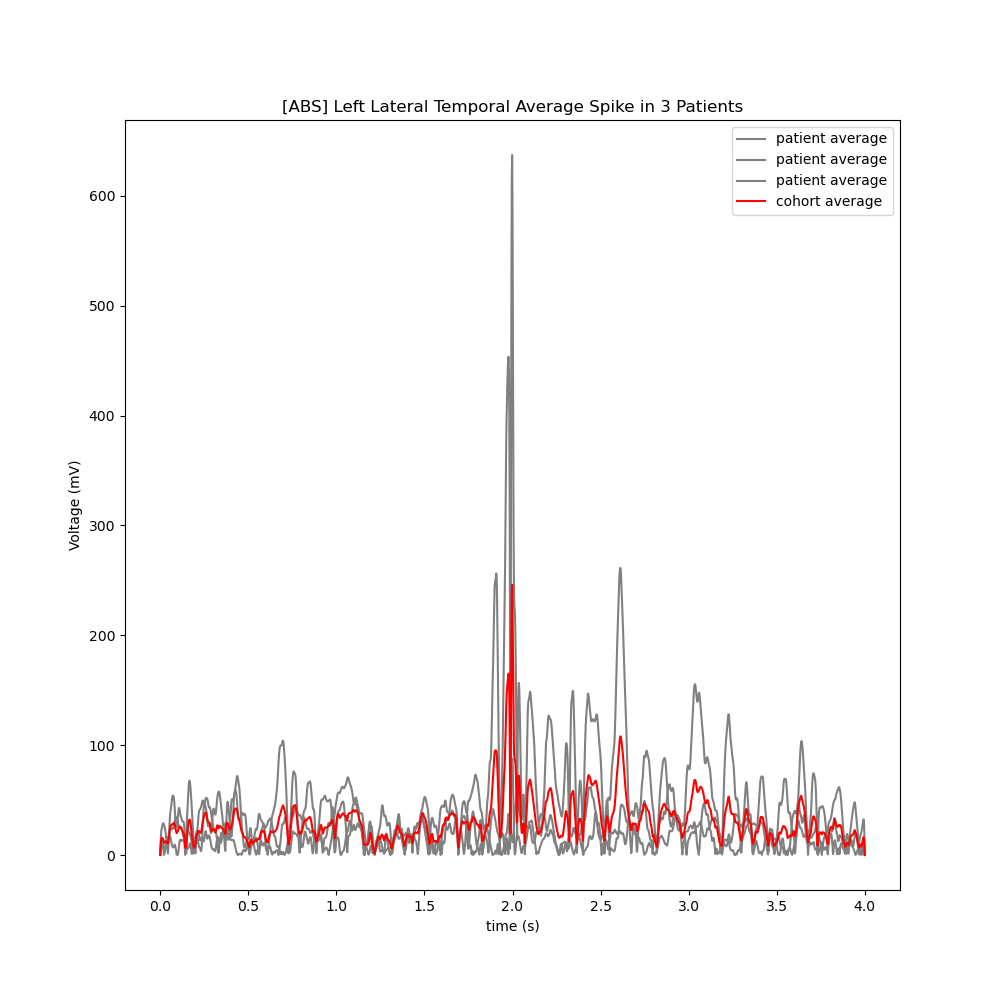
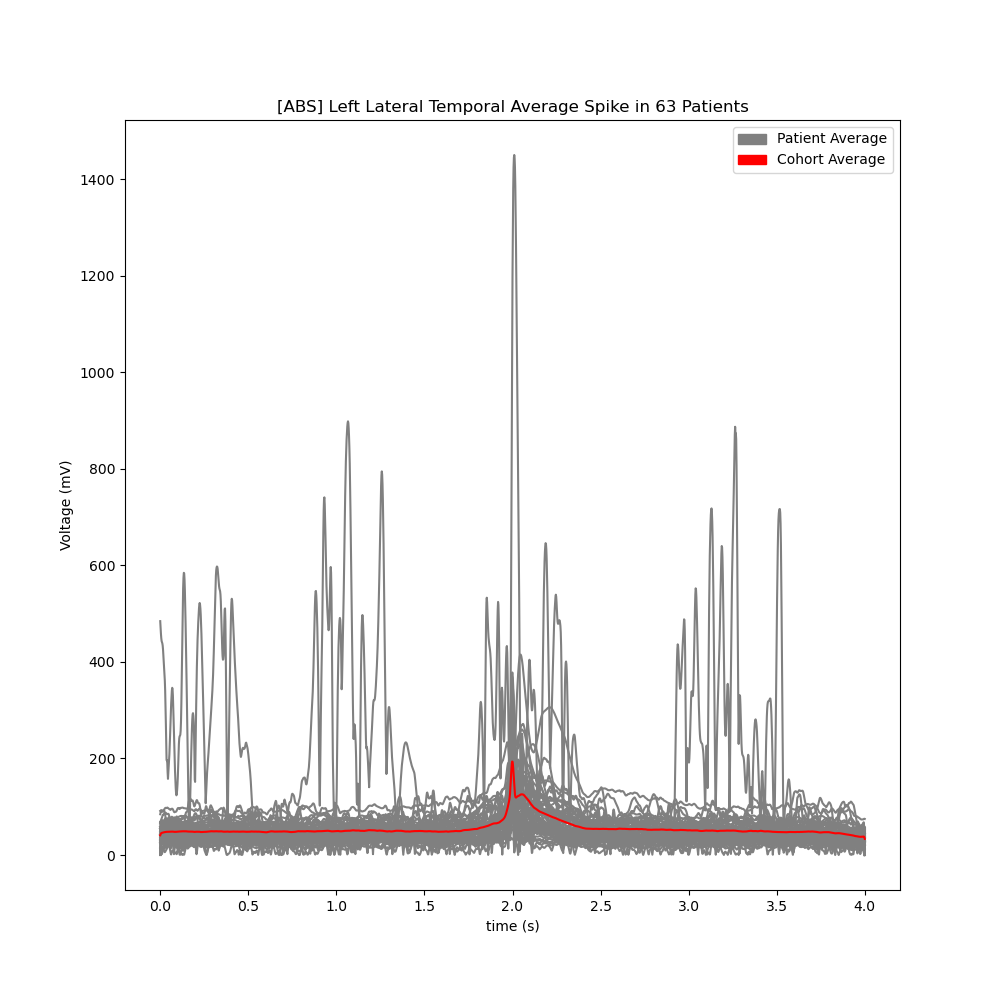
distribution plots

diff --git a/HUMAN/working_feat_extract_code/region_distribution.py b/HUMAN/working_feat_extract_code/region_distribution.py
@@ -1,3 +1,4 @@
+#%%
 #set up environment
 import pickle
 import pickle as pkl
@@ -8,12 +9,14 @@ from scipy import signal as sig
 from scipy.io import loadmat, savemat
 import warnings
 warnings.filterwarnings('ignore')
+import seaborn as sns
 #get all functions 
 import sys, os
 code_path = os.path.dirname('/mnt/leif/littlab/users/aguilac/Interictal_Spike_Analysis/HUMAN/working_feat_extract_code/functions/')
 sys.path.append(code_path)
 from ied_fx_v3 import *
 
+# %%
 #Setup ptnames and directory
 data_directory = ['/mnt/leif/littlab/users/aguilac/Projects/FC_toolbox/results/mat_output_v2', '/mnt/leif/littlab/data/Human_Data']
 pt = pd.read_csv('/mnt/leif/littlab/users/aguilac/Projects/FC_toolbox/results/mat_output_v2/pt_data/pkl_list.csv') #pkl list is our list of the transferred data (mat73 -> pickle)
@@ -21,28 +24,148 @@ pt = pt['pt'].to_list()
 blacklist = ['HUP101' ,'HUP112','HUP115','HUP124','HUP144','HUP147','HUP149','HUP155','HUP176','HUP193','HUP194','HUP195','HUP198','HUP208','HUP212','HUP216','HUP217','HUP064','HUP071','HUP072','HUP073','HUP085','HUP094']
 ptnames = [i for i in pt if i not in blacklist] #use only the best EEG signals (>75% visually validated)
 
-#
+# %%
 roiL_mesial = [' left entorhinal ', ' left parahippocampal ' , ' left hippocampus ', ' left amygdala ', ' left perirhinal ']
-roiL_lateral = [' left inferior temporal ', ' left superior temporal ', ' left middle temporal ', ' left fusiform ']
+roiL_lateral = [' left inferior temporal ', ' left superior temporal ', ' left middle temporal ', ' left fusiform '] #lingual??
 roiR_mesial = [' right entorhinal ', ' right parahippocampal ', ' right hippocampus ', ' right amygdala ', ' right perirhinal ']
 roiR_lateral = [' right inferior temporal ', ' right superior temporal ', ' right middle temporal ', ' right fusiform ']
 emptylabel = ['EmptyLabel','NaN']
-L_OC = [' left inferior parietal ', ' left postcentral ',' left cerebellum exterior ', ' left superior parietal ', ' left precentral ', ' left rostral middle frontal ', ' left pars triangularis ', ' left supramarginal ', ' left insula ', ' left caudal middle frontal ', ' left putamen ', ' left posterior cingulate ', ' left caudate ', ' left lateral orbitofrontal ', ' left lateral occipital ', ' left cuneus ']
-R_OC = [' right inferior parietal ', ' right postcentral ',' right cerebellum exterior ', ' right superior parietal ', ' right precentral ', ' right rostral middle frontal ', ' right pars triangularis ', ' right supramarginal ', ' right insula ', ' right caudal middle frontal ', ' right putamen ', ' right posterior cingulate ', ' right caudate ', ' right lateral orbitofrontal ', ' right lateral occipital ', ' right cuneus ']
+L_OC = [' left inferior parietal ', ' left postcentral ', ' left superior parietal ', ' left precentral ', ' left rostral middle frontal ', ' left pars triangularis ', ' left supramarginal ', ' left insula ', ' left caudal middle frontal ', ' left posterior cingulate ', ' left lateral orbitofrontal ', ' left lateral occipital ', ' left cuneus ']
+R_OC = [' right inferior parietal ', ' right postcentral ', ' right superior parietal ', ' right precentral ', ' right rostral middle frontal ', ' right pars triangularis ', ' right supramarginal ', ' right insula ', ' right caudal middle frontal ', ' right posterior cingulate ', ' right lateral orbitofrontal ', ' right lateral occipital ', ' right cuneus ']
+
+#L_OC = [' left inferior parietal ', ' left postcentral ',' @left cerebellum exterior ', ' left superior parietal ', ' left precentral ', ' left rostral middle frontal ', ' left pars triangularis ', ' left supramarginal ', ' left insula ', ' left caudal middle frontal ', ' @left putamen ', ' left posterior cingulate ', ' @left caudate ', ' left lateral orbitofrontal ', ' left lateral occipital ', ' left cuneus ']
+#R_OC = [' right inferior parietal ', ' right postcentral ',' right cerebellum exterior ', ' right superior parietal ', ' right precentral ', ' right rostral middle frontal ', ' right pars triangularis ', ' right supramarginal ', ' right insula ', ' right caudal middle frontal ', ' right putamen ', ' right posterior cingulate ', ' right caudate ', ' right lateral orbitofrontal ', ' right lateral occipital ', ' right cuneus ']
 roilist = [roiL_mesial, roiL_lateral, roiR_mesial, roiR_lateral, L_OC, R_OC, emptylabel]
 
-
+# %%
+# want to create a heat map with the zones representing the distribution of spikes. 
+# (each row is a pt, each column shows the count)
+brain_dfs = pd.DataFrame()
+count = 0
 for pt in ptnames:
-    spike, brain_df, ids = load_ptall(pt, data_directory)
-    if isinstance(brain_df, pd.DataFrame) == False: #checks if RID exists
+    rid,DF = load_cleaned_braindf(pt,data_directory)
+    if isinstance(DF, pd.DataFrame) == False:
+        continue
+    else:
+        brain_dfs = brain_dfs.append(DF)
         count += 1
-        continue
-    if spike.fs[0][-1] < 500:
-        print("low fs - skip")
-        continue
-    for roi in roilist:
-        vals, chnum, idxch = value_basis(spike, brain_df, roi)    
+
+display(count)
+
+#save file for the concat'd dataframe
+#filepath = '/mnt/leif/littlab/users/aguilac/Projects/FC_toolbox/results/mat_output_v2/pt_data/concat_brain_df.csv'
+#brain_dfs.to_csv(filepath)
+
+
+#%%
+""" commented out, because I saved this dataframe as a csv, and added region labels manually. 
+region_count = brain_dfs.groupby('final_label').count()['name'].reset_index()
+region_count = region_count.sort_values(by='name',ascending=False)
+display(region_count)
+"""
+
+#%%
+filepath = '/mnt/leif/littlab/users/aguilac/Projects/FC_toolbox/results/mat_output_v2/pt_data/allcounts_brain_df.csv'
+region_count = pd.read_csv(filepath)
+#region_count.to_csv(filepath)
+
+#%%
+trunc_count = region_count[region_count['name'] > 20]
+trunc_count = trunc_count.groupby('region').sum('name')['name'].reset_index().sort_values(by='name',ascending = False)
+display(trunc_count)
+
+"""
+There was 3 brain stem???
+30/25 for Cerebellum Total of 50 channels across our 77 patients. 
+"""
+
+# %% Create Heat Map that shows % of spikes in a region vs the SOZ localization. (we can start with lateralization first then exact)
+
+def biglist_roi(ptnames, roi):
+    roiLlat_values = []
+    roiLlat_idxch = []
+    count = 0
+    for pt in ptnames:
+        print(pt)
+        spike, brain_df, ids = load_ptall(pt, data_directory)
+        if isinstance(brain_df, pd.DataFrame) == False: #checks if RID exists
+            count += 1
+            continue
+        if spike.fs[0][-1] < 500:
+            count += 1
+            print("low fs - skip")
+            continue
+        vals, chnum, idxch = value_basis_multiroi(spike, brain_df, roi)
+        roiLlat_values.append(vals)
+        roiLlat_idxch.append(idxch)    
         if vals == 0: #checks if there is no overlap
             count += 1
             continue
-        _, _, _, indiv_vals, flipwave, _, _ = totalavg_roiwave(idxch, vals)
+    return roiLlat_values, roiLlat_idxch
+
+def spike_count_perregion(values):
+    spike_count = []
+    count = []
+    for val in values:
+        count = []
+        if val == 0:
+            count = [0]
+            spike_count.append(count)
+            continue
+        for x in val:
+            count.append(len(x))
+        spike_count.append(count) #returns a list of the counts of each pt, per channel in ROI
+
+    count_perpt = [np.sum(x) for x in spike_count]
+    fullcounts = np.sum(np.sum(count_perpt))
+    return spike_count, count_perpt, fullcounts
+
+#%% multiroi approach:
+roi = [roiL_mesial, roiL_lateral, roiR_mesial, roiR_lateral, L_OC, R_OC]
+
+#%% individual pull (using the old version of the code) This is just based_values substituted.
+#left mesial
+roiLmesi_values, roiLmesi_idxch = biglist_roi(ptnames, roiL_mesial)
+counts_Lmesi, count_Lmesi_perpt, fullcount_Lmesi = spike_count_perregion(roiLmesi_values) #returns a list of the counts of each pt, per channel in ROI
+
+#left lateral
+roiLlat_values,roiLlat_idxch = biglist_roi(ptnames, roiL_lateral)
+counts_Llat, count_Llat_perpt, fullcount_Llat = spike_count_perregion(roiLlat_values) #returns a list of the counts of each pt, per channel in ROI
+
+#right mesial
+roiRmesi_values, roiRmesi_idxch = biglist_roi(ptnames, roiR_mesial)
+counts_Rmesi, count_Rmesi_perpt, fullcount_Rmesi = spike_count_perregion(roiRmesi_values) #returns a list of the counts of each pt, per channel in ROI
+
+#right lateral
+roiRlat_values, roiRlat_idxch = biglist_roi(ptnames, roiR_lateral)
+counts_Rlat, count_Rlat_perpt, fullcount_Rlat = spike_count_perregion(roiRlat_values) #returns a list of the counts of each pt, per channel in ROI
+
+# %%
+
+# GO BACK AND PLOT WITH THIS
+
+#L OC
+roiLOC_values, roiLOC_idxch = biglist_roi(ptnames, L_OC)
+counts_LOC, count_LOC_perpt, fullcount_LOC = spike_count_perregion(roiLOC_values)
+#R OC
+roiROC_values, roiROC_idxch = biglist_roi(ptnames, R_OC)
+counts_ROC, count_ROC_perpt, fullcount_ROC = spike_count_perregion(roiROC_values)
+#emptylabel
+#roiNAN_values, roiNAN_idxch = biglist_roi(ptnames, emptylabel)
+#counts_NAN, count_NAN_perpt, fullcount_NAN = spike_count_perregion(roiNAN_values)
+
+# %% Plot a bar plot showing the counts
+totalcounts= np.sum([fullcount_Rlat,fullcount_Rmesi,fullcount_Llat,fullcount_Lmesi])#,fullcount_ROC, fullcount_LOC)
+listofcounts = [fullcount_Rlat,fullcount_Rmesi,fullcount_Llat,fullcount_Lmesi]#,fullcount_ROC, fullcount_LOC]
+percentofcount = np.divide(listofcounts,totalcounts)
+
+fig = plt.figure(figsize=(10,10))
+plt.bar(['R L','R M','L L', 'L M'], percentofcount)
+plt.title('Percent of Spikes per Region')
+plt.ylabel('%')
+plt.xlabel('region')
+fig.savefig("/mnt/leif/littlab/users/aguilac/Interictal_Spike_Analysis/HUMAN/working_feat_extract_code/spike figures/distribution/spike_counts1") #save as jpg
+
+
+
+#%% Create average feature value (normalized) per spike region vs localization (or lateralization)

diff --git a/HUMAN/working_feat_extract_code/functions/ied_fx_v3.py b/HUMAN/working_feat_extract_code/functions/ied_fx_v3.py
@@ -327,6 +327,16 @@ def load_ptall(ptname, data_directory):
 
     return spike, relabeled_df, [ptname,rid]
 
+def load_cleaned_braindf(ptname, data_directory):
+    rid, brain_df = load_rid(ptname, data_directory)
+    if isinstance(brain_df, pd.DataFrame) == False:
+        relabeled_df = 0
+        ptname = 0
+        rid = 0
+    else:
+        relabeled_df = label_fix(ptname, data_directory, threshold = 0.25)
+    return [ptname, rid], relabeled_df
+
 def value_basis(spike, brain_df, roi):
     """
     Function that takes in all values, the DKT atlas dataframe, and a region of interest (ROI)
@@ -373,6 +383,61 @@ def value_basis(spike, brain_df, roi):
     based_values = values_oi
 
     return based_values, chnum, idx_roich
+
+def value_basis_multiroi(spike, brain_df, region_of_interests):
+    """
+    Function that takes in all values, the DKT atlas dataframe, and a region of interest (ROI)
+    returns a tailored, truncated list of the all the values given a specific ROI
+    input: spike object, brain dataframe, roi list
+    output: correlated values, channel number (matlab), indices of channels
+    """
+    all_vals = []
+    all_chnum = []
+    all_idx_roich = []
+    for roi in region_of_interests:
+        roi_ch = pd.DataFrame()
+        for x in roi:
+            roi_ch = roi_ch.append(brain_df[(brain_df['final_label'] == x)])
+            #roi_ch = roi_ch.concat([roi_ch, brain_df[(brain_df['label'] == x )]])
+
+        #roi_ch = brain_df.loc[brain_df['label']== roi] #creates truncated dataframe of ROI labels
+        roi_chlist = np.array(roi_ch['name']) #converts DF to array
+
+        #finds the index of where to find the channel
+        idx_roich = []
+        for ch in roi_chlist:
+            x = np.where(spike.chlabels[0][-1] == ch)[0]
+            idx_roich.append(x)
+
+        idx_roich = [x[0] for x in idx_roich if np.size(x)!=0]
+        chnum = [x+1 for x in idx_roich if np.size(x)!=0]
+
+        counts,chs = hifreq_ch_spike(spike.select)
+
+        select_oi = []
+        for chroi in idx_roich:
+            idx = np.where(chs == chroi)[0]
+            select_oi.append(idx)
+
+        values_oi = []
+        if np.size(select_oi) == 0:
+            values_oi = 0
+            print("NO MATCHES")
+        else:
+            for soi in select_oi:
+                holder = []
+                for x in soi:
+                    x  = int(x)
+                    holder.append(spike.values[x])
+                values_oi.append(holder)
+
+        based_values = values_oi
+        
+        all_vals.append(based_values)
+        all_chnum.append(chnum)
+        all_idx_roich.append(idx_roich)
+
+    return all_vals, all_chnum, all_idx_roich
 
 def avgroi_wave(idx_roich, based_vals):
     #per channel
